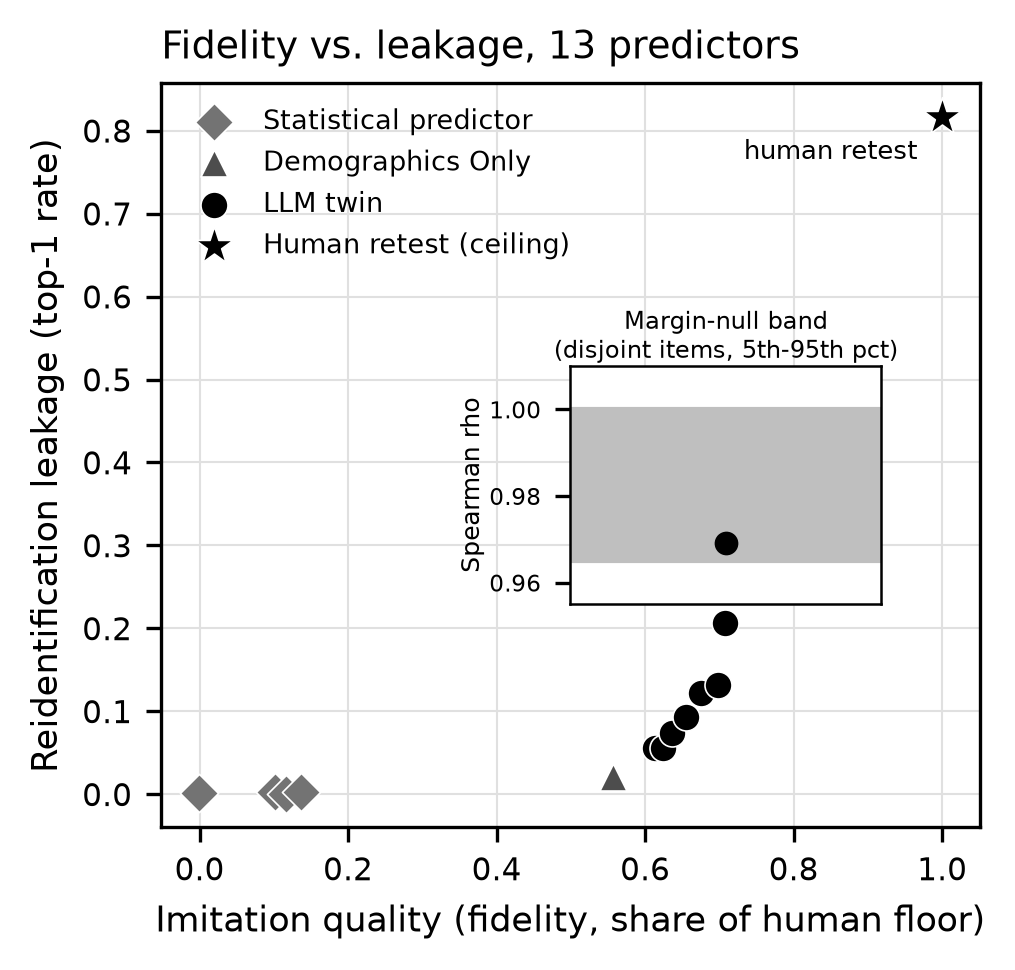
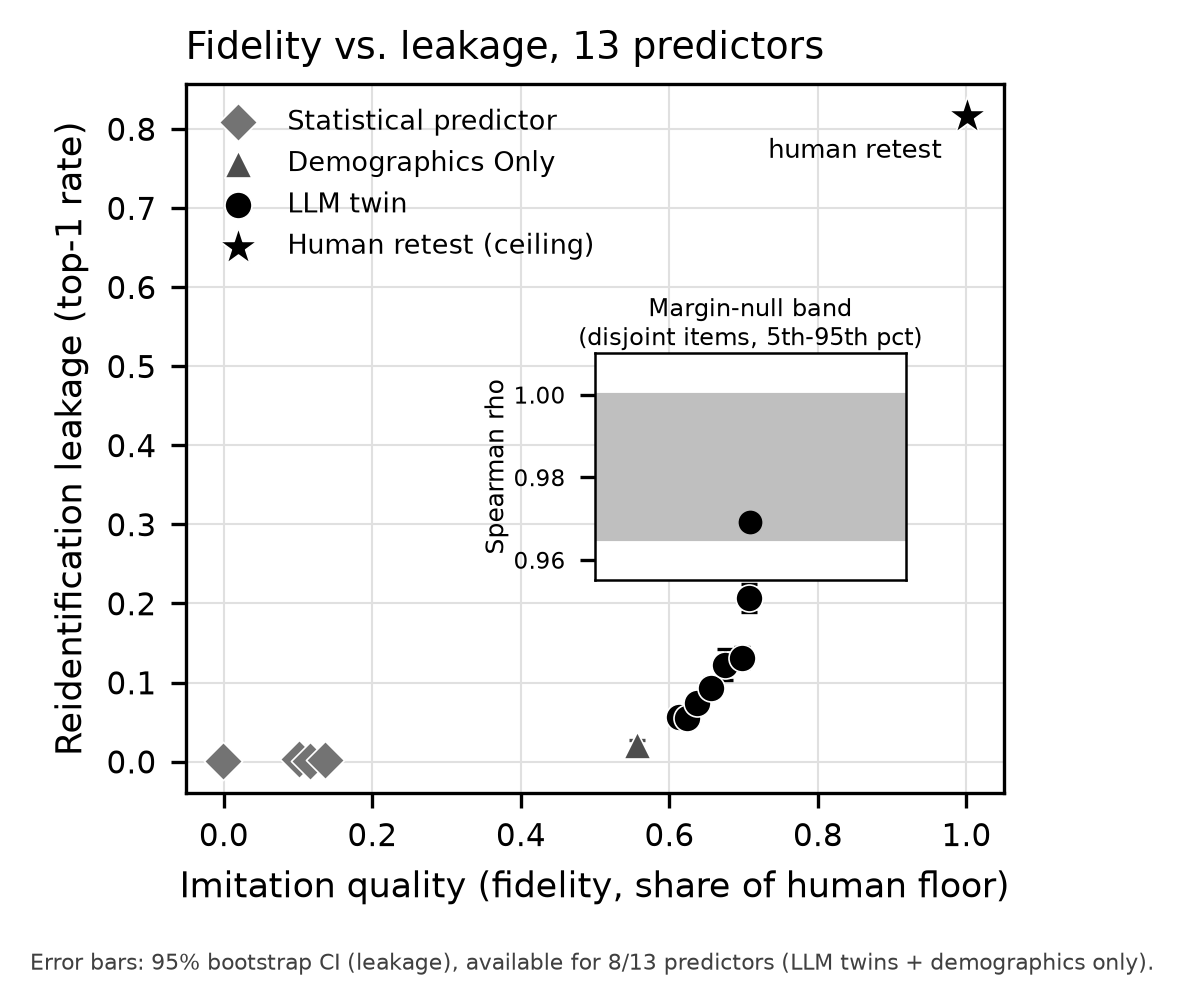
Figure 2 : barres d'erreur (IC bootstrap fuite top-1) pour 8/13 predicteurs
Sources deja calculees, aucune valeur inventee : c7-reidentification.csv
(cible=humains vague 4) donne top1_bas/top1_haut qui correspondent
exactement (< 1e-9) au fuite_top1 deja trace pour les 8 predicteurs
LLM/demographiques. Aucune IC equivalente n'existe pour les 4 temoins
statistiques (B0/B1/B2/PMM k=10) ni pour le retest humain, ni pour la
fidelite (x) sur aucun point : ces axes/points restent sans barre,
et une legende en bas de figure precise la couverture (8/13).

Figure 1 verifiee : aucun CSV ne contient d'IC pour les points annotes
a 0,1%/1% FPR (tpr_fpr_0_1pct, tpr_fpr_1pct) -> inchangee, pas d'invention.

Aucune donnee, courbe ou libellé modifié ; images regenerees en 300 dpi.

diff --git a/analyses/figures_article.py b/analyses/figures_article.py
@@ -168,14 +168,34 @@ def figure2():
     points = pd.read_csv(os.path.join(RESULTATS, "c7-compromis-robustesse-points.csv"))
     nul = pd.read_csv(os.path.join(RESULTATS, "c7-disjoint-nul.csv"))
     resume = pd.read_csv(os.path.join(RESULTATS, "c7-disjoint-resume.csv"))
+    # IC bootstrap de la fuite (top-1), disponibles pour 8 des 13 points seulement
+    # (les 8 predicteurs LLM/demographiques). Trouvees dans c7-reidentification.csv,
+    # cible="humains vague 4" : le top1 de ce sous-ensemble correspond exactement
+    # (a 1e-12 pres) au fuite_top1 de c7-compromis-robustesse-points.csv pour ces 8
+    # configurations, confirmant qu'il s'agit bien de la meme statistique. Aucune IC
+    # equivalente n'existe pour les 4 temoins statistiques (B0/B1/B2/PMM k=10) ni pour
+    # le retest humain : on ne les invente pas, ces 5 points restent sans barre d'erreur.
+    reid = pd.read_csv(os.path.join(RESULTATS, "c7-reidentification.csv"))
+    reid_cible = reid[reid["cible"] == "humains vague 4"].set_index("configuration")
+    ic_fuite = reid_cible[["top1", "top1_bas", "top1_haut"]]
 
     fig, ax = plt.subplots(figsize=(3.4, 3.3))
 
     vus = set()
+    n_avec_ic = 0
     for _, r in points.iterrows():
         st = _style_point(r["groupe"], r["configuration"])
         lbl = st["label"] if st["label"] not in vus else None
         vus.add(st["label"])
+        if r["configuration"] in ic_fuite.index:
+            ligne_ic = ic_fuite.loc[r["configuration"]]
+            assert abs(ligne_ic["top1"] - r["fuite_top1"]) < 1e-9
+            bas = r["fuite_top1"] - float(ligne_ic["top1_bas"])
+            haut = float(ligne_ic["top1_haut"]) - r["fuite_top1"]
+            ax.errorbar(r["fidelite_plancher"], r["fuite_top1"],
+                         yerr=[[bas], [haut]], fmt="none", ecolor=st["color"],
+                         elinewidth=0.8, capsize=2, capthick=0.8, zorder=2)
+            n_avec_ic += 1
         ax.scatter(r["fidelite_plancher"], r["fuite_top1"], marker=st["marker"],
                     s=42 if st["marker"] != "*" else 90, color=st["color"],
                     edgecolor="white", linewidth=0.4, label=lbl, zorder=3)
@@ -183,6 +203,8 @@ def figure2():
             ax.annotate("human retest", xy=(r["fidelite_plancher"], r["fuite_top1"]),
                          xytext=(-6, -10), textcoords="offset points", fontsize=6.3,
                          ha="right")
+    print(f"figure2 : IC bootstrap de la fuite tracees pour {n_avec_ic}/{len(points)} "
+          "points (les autres n'ont pas d'IC calculee dans les CSV)")
 
     ax.set_xlabel("Imitation quality (fidelity, share of human floor)")
     ax.set_ylabel("Reidentification leakage (top-1 rate)")
@@ -211,7 +233,11 @@ def figure2():
     for spine in inset.spines.values():
         spine.set_linewidth(0.6)
 
-    fig.tight_layout()
+    fig.text(0.01, 0.005,
+              "Error bars: 95% bootstrap CI (leakage), available for 8/13 predictors "
+              "(LLM twins + demographics only).",
+              fontsize=5.3, color="0.25", ha="left", va="bottom")
+    fig.tight_layout(rect=(0, 0.035, 1, 1))
     chemin = os.path.join(FIGURES, "fig2-couplage.png")
     fig.savefig(chemin, dpi=300, bbox_inches="tight")
     plt.close(fig)
